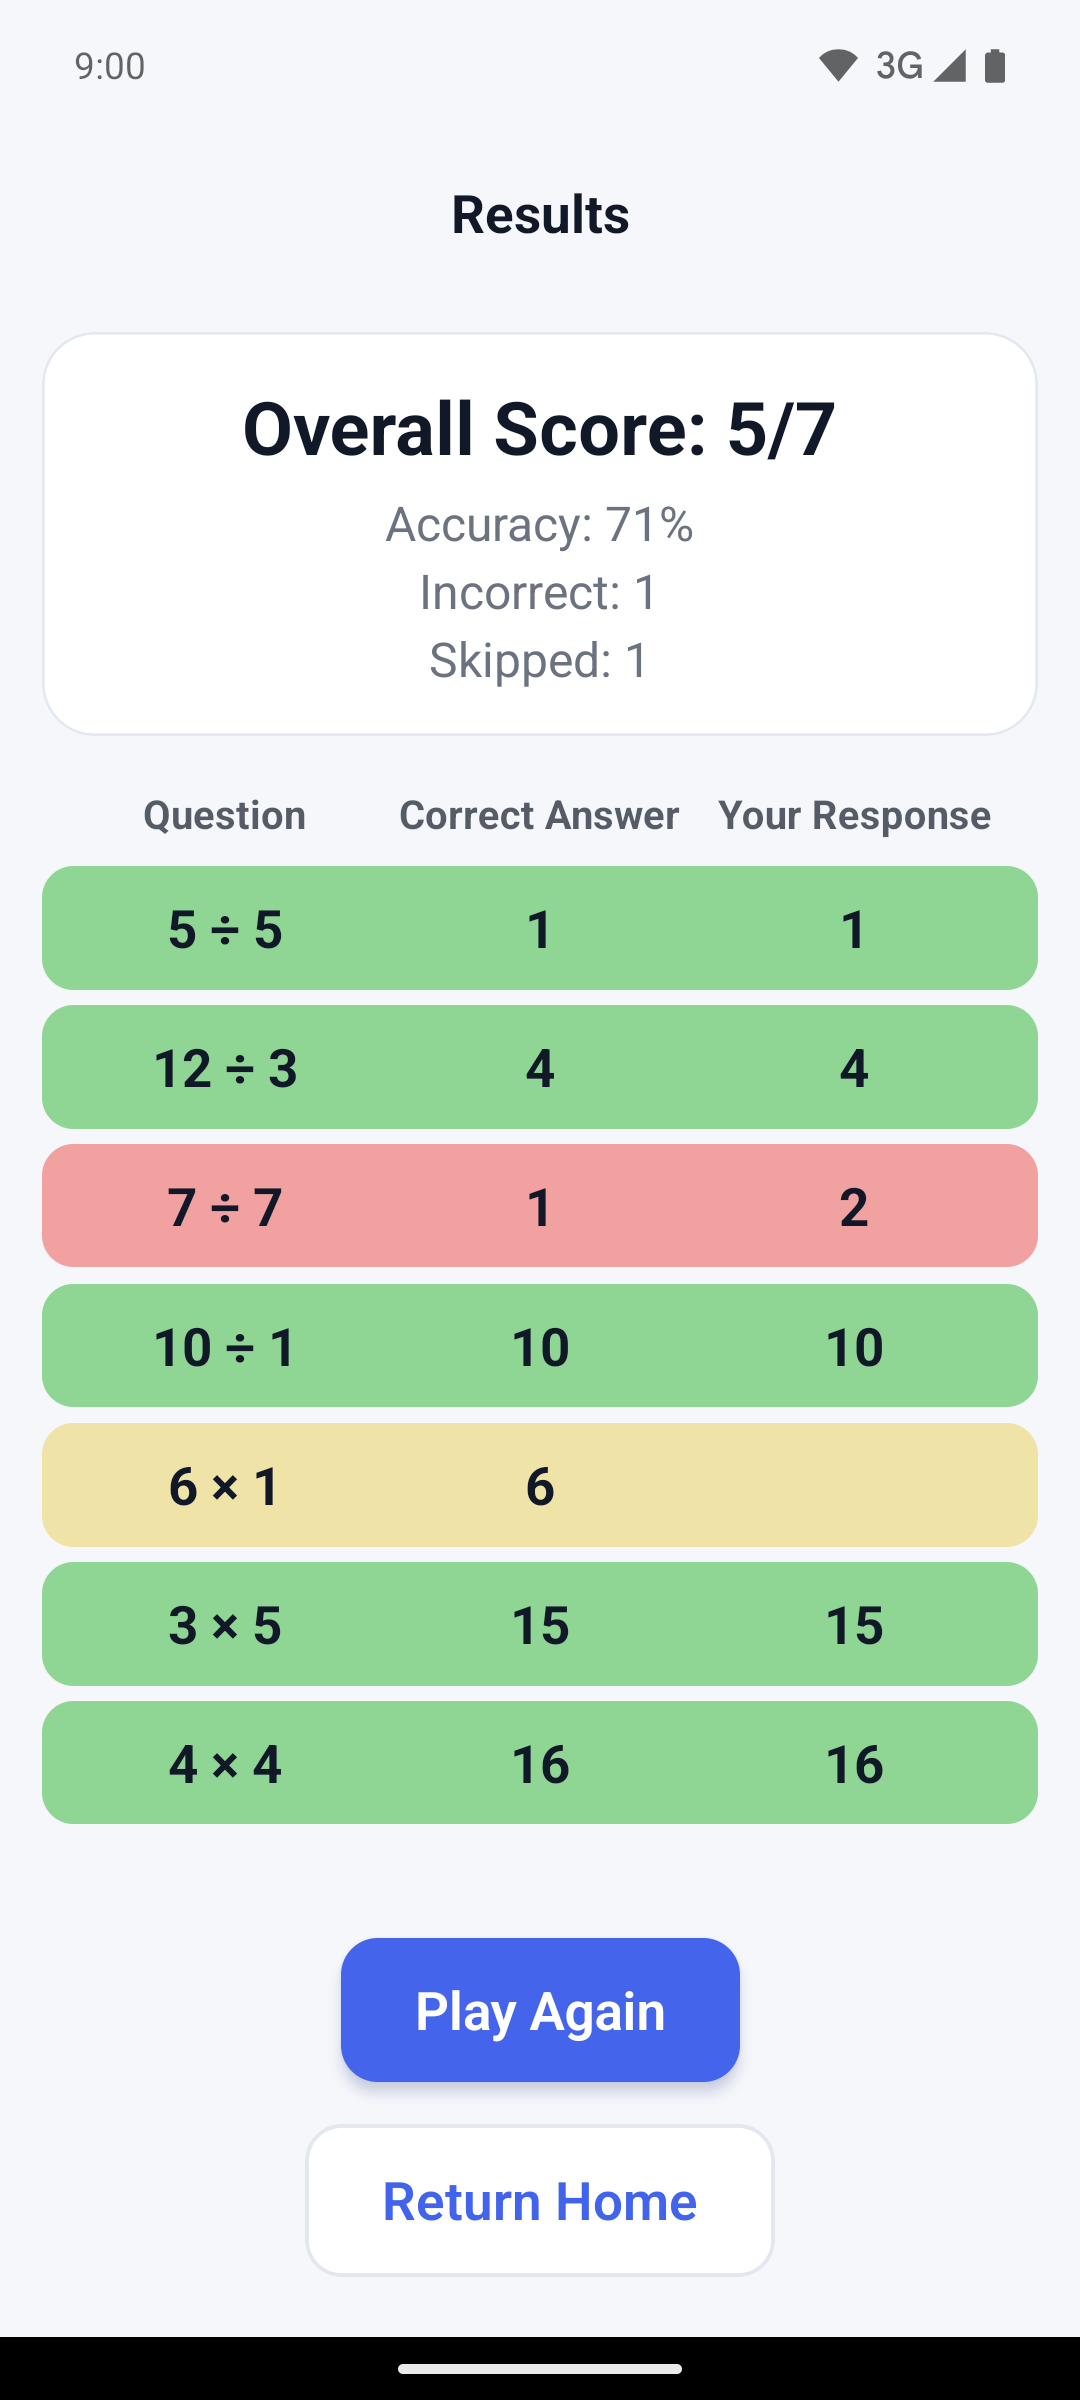
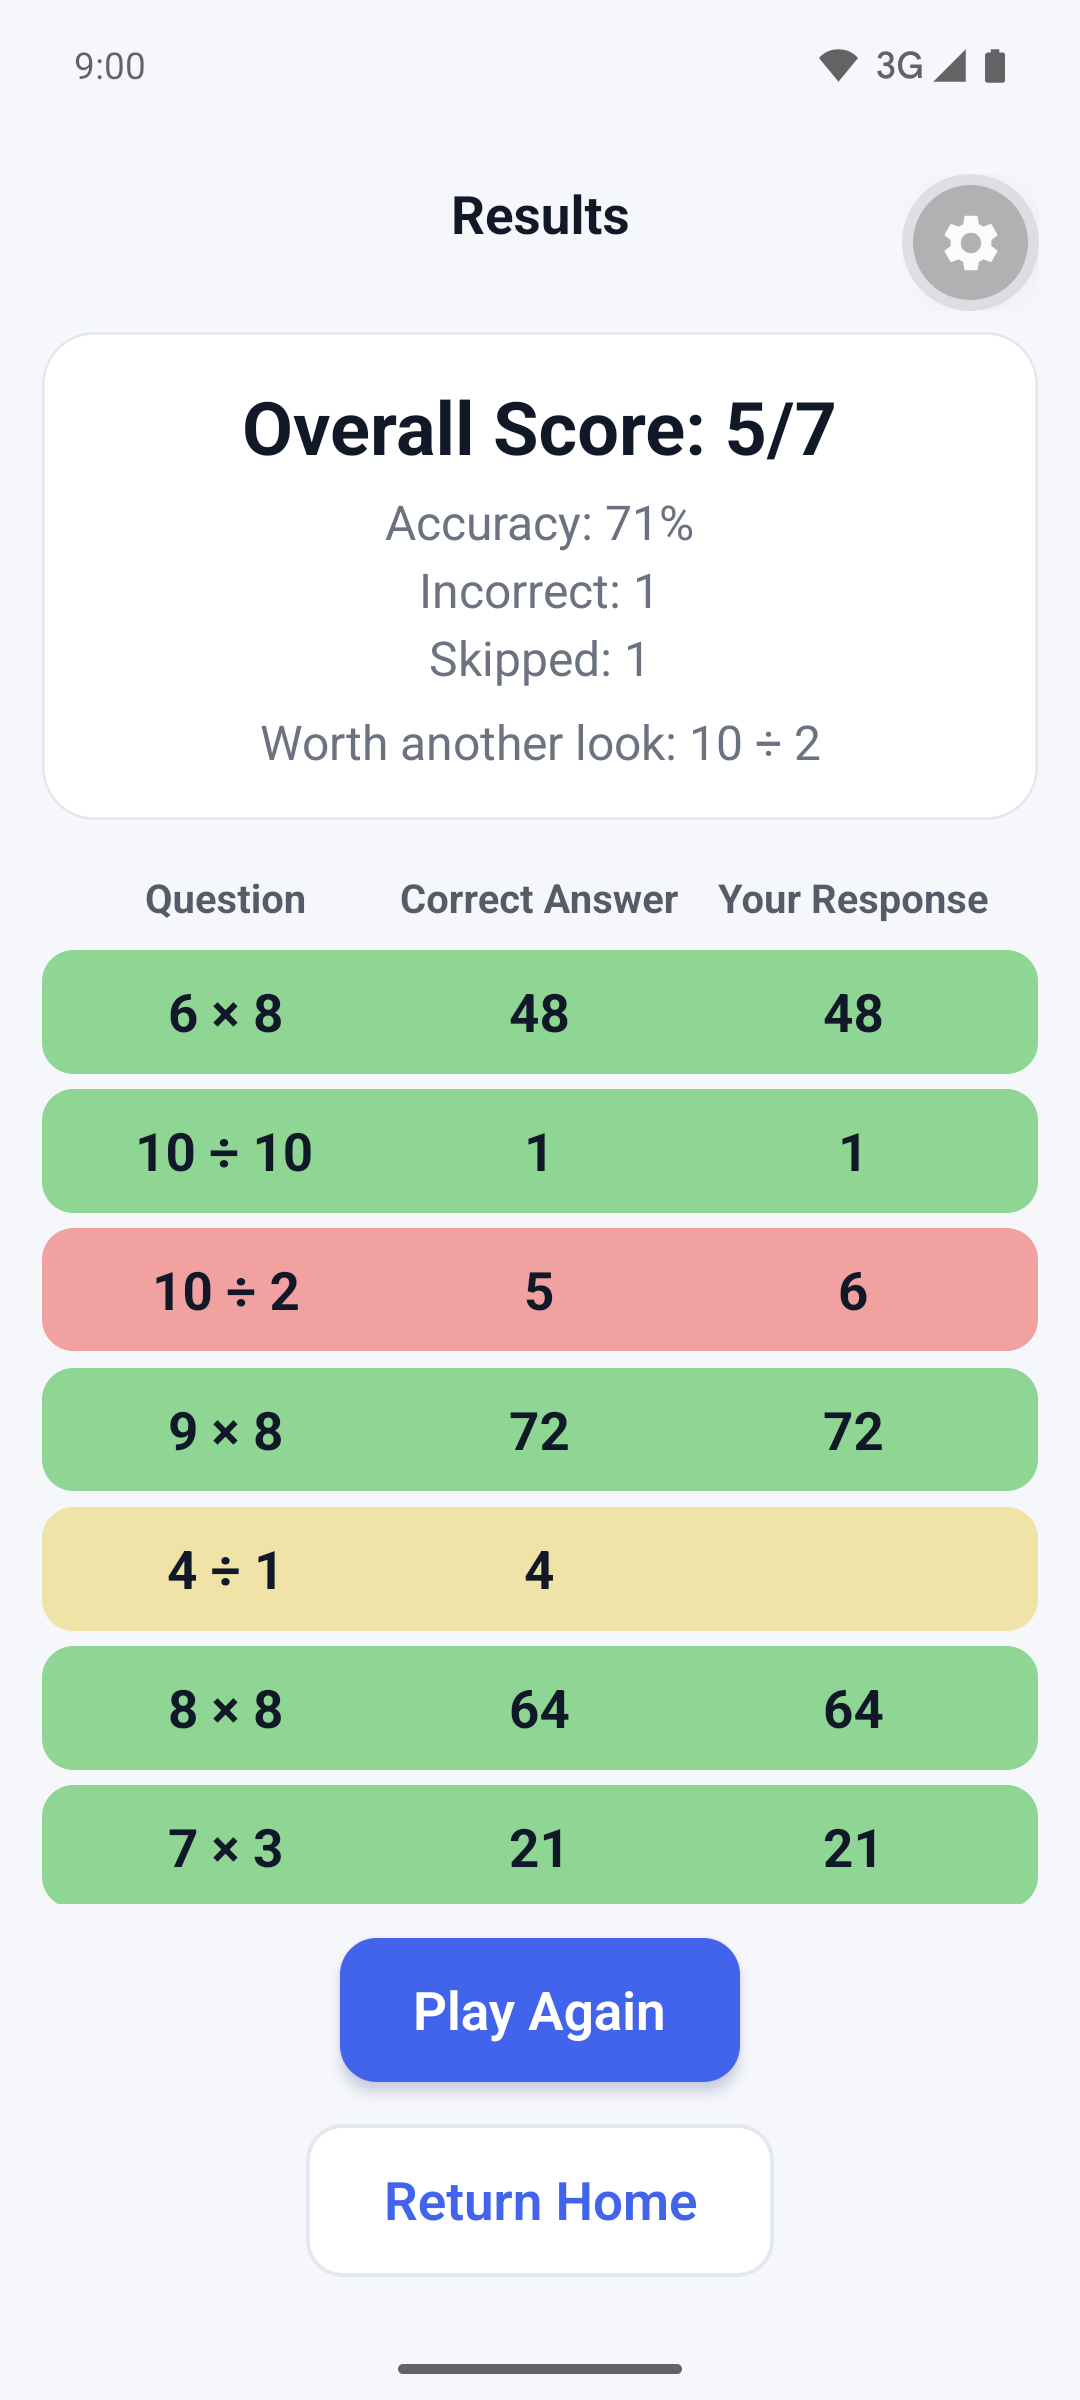
README screenshots for History, the times table, focus mode and the results note (#54)
Refs #46

diff --git a/README.md b/README.md
@@ -2,7 +2,8 @@
 
 Mobile app for the classic "mad minute" arithmetic drill: answer as many math problems as you can in 30, 60 or 120 seconds, then see how you did. You choose which operations to practise and the range of numbers.
 
-<p><img src="docs/screenshots/home.png" alt="Home screen" width="24%"> <img src="docs/screenshots/settings.png" alt="Settings: number range and operations" width="24%"> <img src="docs/screenshots/question.png" alt="A question in progress" width="24%"> <img src="docs/screenshots/results.png" alt="Results with correct, incorrect and skipped answers" width="24%"></p>
+<p><img src="docs/screenshots/home.png" alt="Home screen" width="24%"> <img src="docs/screenshots/settings.png" alt="Settings: number range and operations" width="24%"> <img src="docs/screenshots/question.png" alt="A question in progress" width="24%"> <img src="docs/screenshots/results.png" alt="Results with correct, incorrect and skipped answers and a Worth another look note" width="24%"></p>
+<p><img src="docs/screenshots/history.png" alt="History: totals, recent rounds and accuracy by operation" width="24%"> <img src="docs/screenshots/times-table.png" alt="History: a times table coloured by how well each fact is known" width="24%"> <img src="docs/screenshots/focus.png" alt="Settings: the Focus on my weak spots switch" width="24%"></p>
 
 ## Why it exists
 
@@ -46,7 +47,9 @@ cd scripts/screenshots && npm ci     # once
 node capture.mjs                     # in another; METRO_PORT, ANDROID_SERIAL and ANDROID_HOME if needed
 ```
 
-It opens the app in Expo Go, turns on Android demo mode for a clean status bar, plays a 30-second round (five right answers, one wrong, one skipped) and saves the four images at the emulator's resolution (1080x2400 on a Pixel 8). Buttons are found through `uiautomator`; the question during the round is read with OCR (`tesseract.js`, which downloads its English model on first run) because `uiautomator` cannot dump the screen while the timer is running. The script has its own `package.json` so the app does not depend on it.
+It opens the app in Expo Go, turns on Android demo mode for a clean status bar, plays a 30-second round (five right answers, one wrong, one skipped) and saves the four images at the emulator's resolution (1080x2400 on a Pixel 8).
+
+Three more images (History, the times table, and the focus switch in Settings) need saved data, so they are only taken with `SEEDED=1`. To make that data, run `node scripts/screenshots/make-seed.mjs`, which writes a made-up player to `storage/seed.local.json` (git-ignored). The app does not read that file by itself: for the capture, temporarily make `loadStored` in `storage/storage.ts` fall back to `require("./seed.local.json")[key]` (writing it to AsyncStorage) when nothing is saved for a key, clear Expo Go's data so the capture starts from the seed alone, then run `SEEDED=1 node capture.mjs` and undo the change. Buttons are found through `uiautomator`; the question during the round is read with OCR (`tesseract.js`, which downloads its English model on first run) because `uiautomator` cannot dump the screen while the timer is running. The script has its own `package.json` so the app does not depend on it.
 
 ## Design decisions
 
